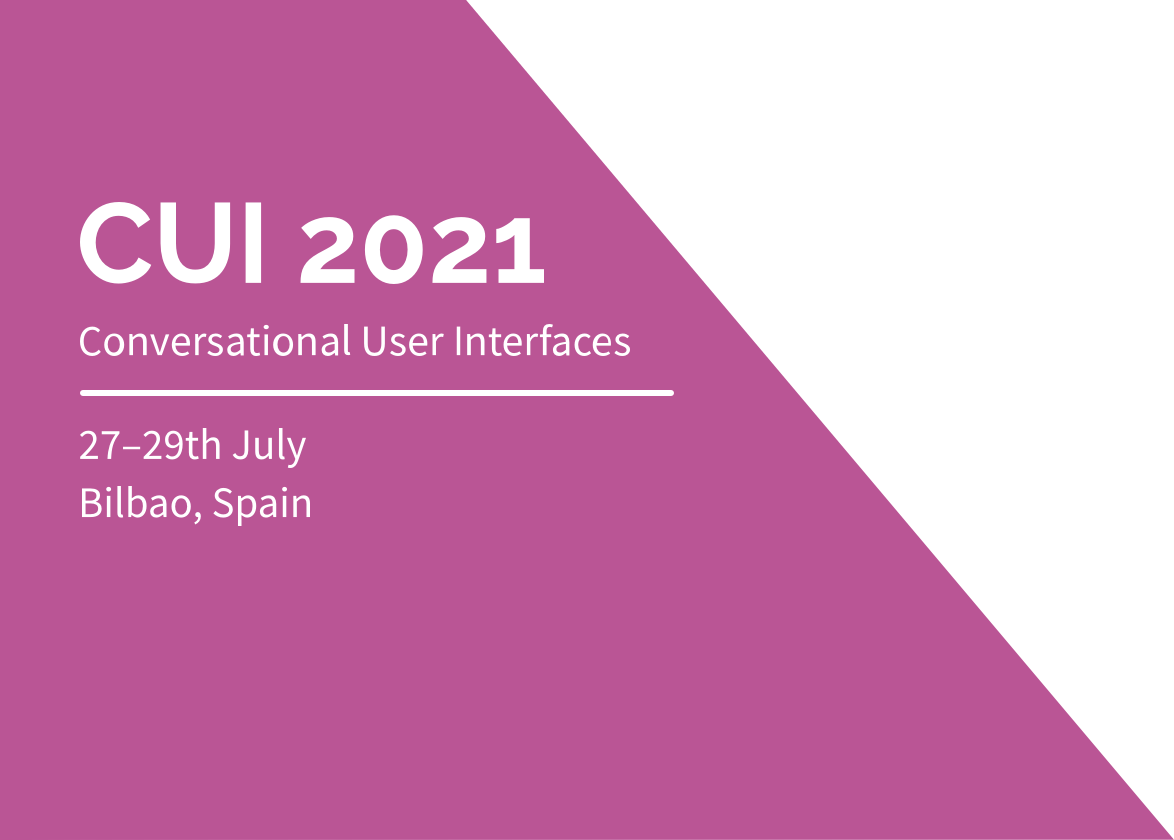
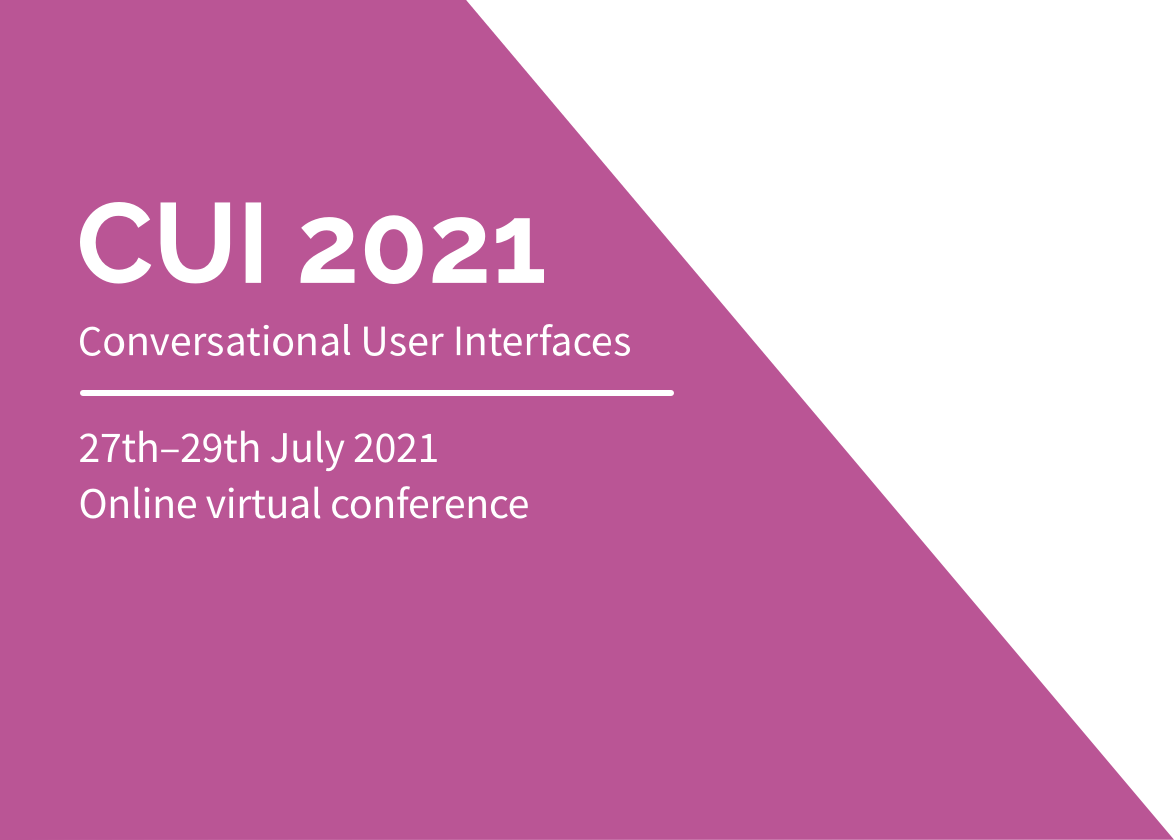
Read virtual website update

Changed region(s): [[0.0613, 0.4952, 0.46, 0.619]]

diff --git a/index.md b/index.md
@@ -1,15 +1,22 @@
 ---
 permalink: /
 description: > 
-  !!conference.short_name!! !!conference.year!! is a hybrid conference with sessions online and in person in !!conference.location!!, running from !!conference.dates!!.
+  !!conference.short_name!! !!conference.year!! is an online virtual conference, running from !!conference.dates!!
 ---
 
 # Welcome to !!conference.short_name!!
+  
+<div class="mb-4 alert alert-secondary" role="alert">
+  <p>Dear community,</p>
+  <p>The {{ site.conference.short_name }} {{ site.conference.year }} Organising Committee has made the difficult decision to run {{ site.conference.short_name }} {{ site.conference.year }} as an online-only virtual conference. We had been hoping and planning to welcome as many of you as possible to Bilbao this year as part of a hybrid event, but the challenges of running a conference during the on-going pandemic, with slow vaccine rollouts across the globe and difficulties for international travellers, have precipitated a change in direction.</p> 
+  <p>This decision was not taken lightly but the committee felt it was necessary. Our focus will now shift to making sure {{ site.conference.short_name }} {{ site.conference.year }} is the most engaging and thoroughly enjoyable virtual conference.</p>
+  <p><em>{{ site.conference.short_name }} {{ site.conference.year }} Organising Committee<br>Thursday 4th March 2021</em></p>
+</div>
 
 <div class="row">
 	<div class="col-xl-8 col-lg-7 col-md-6 col-12">
 		<p>
-		Following the successful ACM In-Cooperation {{ site.conference.short_name }} conferences in 2019 and 2020, {{ site.conference.short_name }} {{ site.conference.year }} will be a <strong>hybrid conference with sessions online and in person in {{ site.conference.location }}</strong>. The conference will run from <strong>{{ site.conference.dates }}</strong>.
+		Following the successful ACM In-Cooperation {{ site.conference.short_name }} conferences in 2019 and 2020, {{ site.conference.short_name }} {{ site.conference.year }} will be an <strong>{{ site.conference.location }}</strong>. The conference will run from <strong>{{ site.conference.dates }}</strong>.
 		</p>
 
 		<p>
